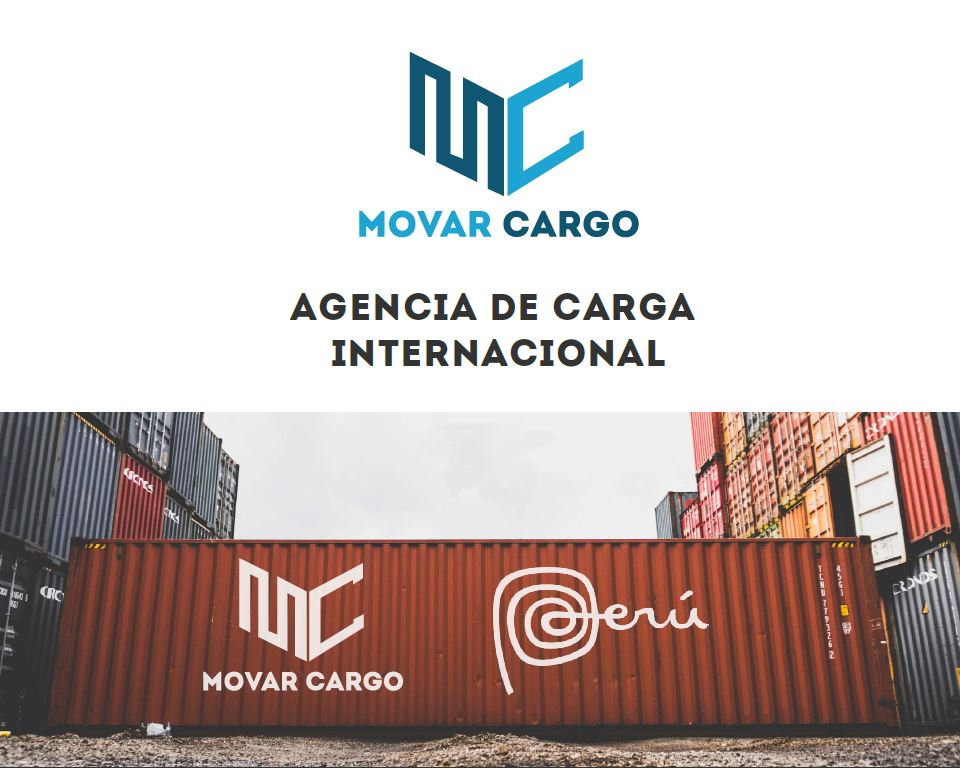
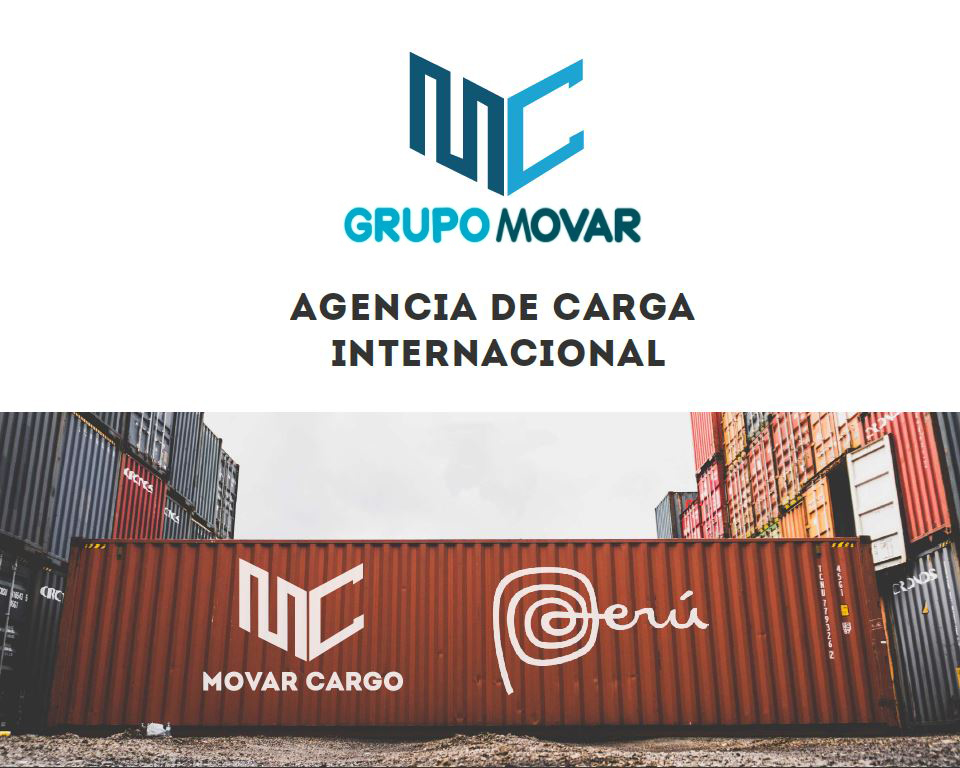
se  avanzaron cambios solicitado, segun el excel 17-07-2021

Changed region(s): [[0.3438, 0.25, 0.6875, 0.3125]]

diff --git a/index.php b/index.php
@@ -360,7 +360,7 @@
 
 
     <!-- nuestro clientes -->
-    <section class="our-services-area our-service-area-three pt-100 pb-70">
+    <section class="our-services-area our-service-area-three ">
         <div class="container">
 
 
